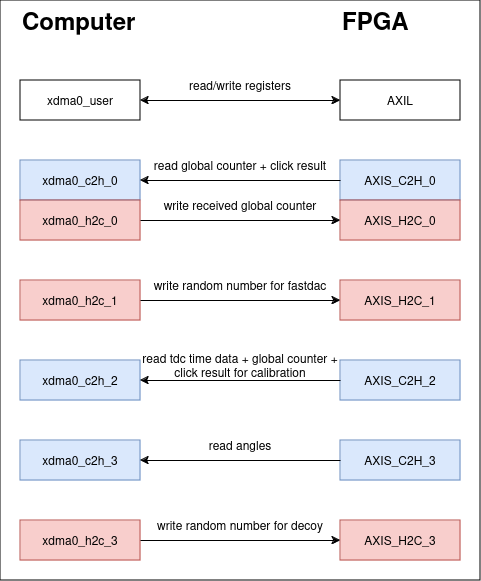
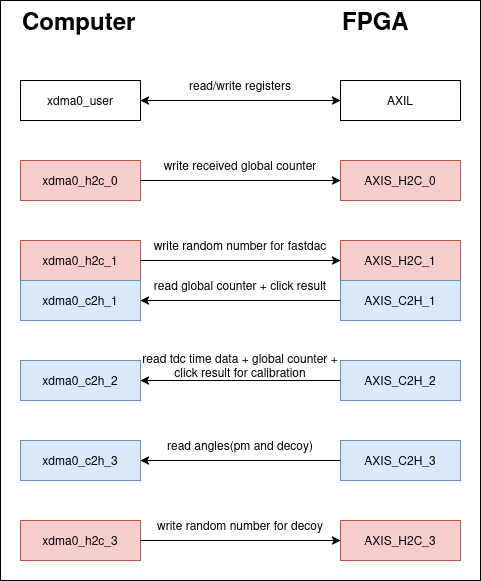
change gc+r channel to c2h_1

diff --git a/general-doc/src/electronics/fpga/ddr4.md b/general-doc/src/electronics/fpga/ddr4.md
@@ -285,7 +285,7 @@ This is the picture describes the states in FPGA, the path of data between Alice
 
 ![ddr4 data flow](pics/ddr4_data_flow.png)
 
-Details in states COUNTING_*. It depends on the calibration result to jump to COUNTING_DE first for COUNTING_AL first.
+Details in states COUNTING_*. Currently, Alice second AM is placed after Alice PM so the decoy_fiber_delay is shorter than ab_fiber_delay, we jump to COUNTING_DE first
 
 ![ddr4 counting states](pics/ddr4_counting.png)
 
